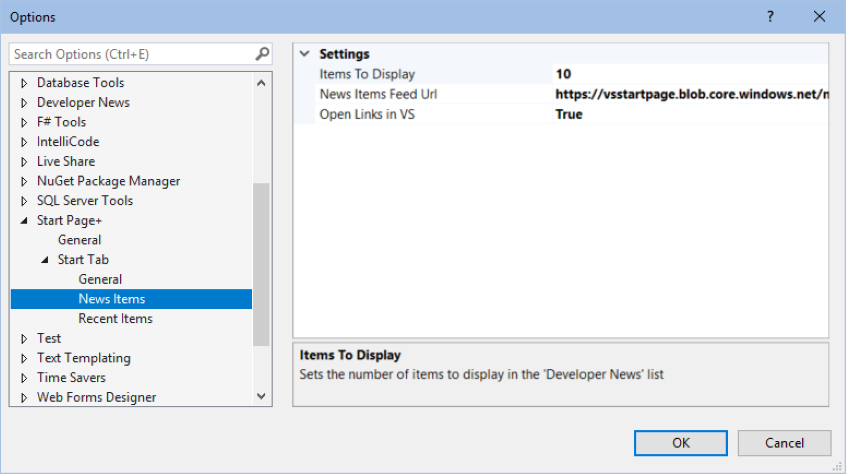
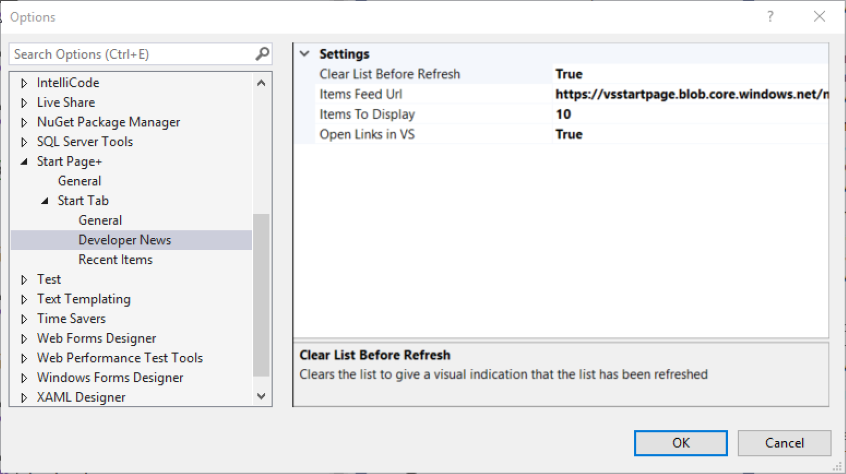
Change `News Items` to `Developer News`
#1266 #1260

diff --git a/src/options/Models/NewsItemsOptions.cs b/src/options/Models/NewsItemsOptions.cs
@@ -9,7 +9,7 @@ namespace StartPagePlus.Options.Models
 
     public class NewsItemsOptions : BaseOptionModel<NewsItemsOptions>
     {
-        public const string Category = @"Start Tab\News Items";
+        public const string Category = @"Start Tab\Developer News";
 
         [Category(Settings)]
         [DisplayName(ClearListBeforeRefreshDisplayName)]
